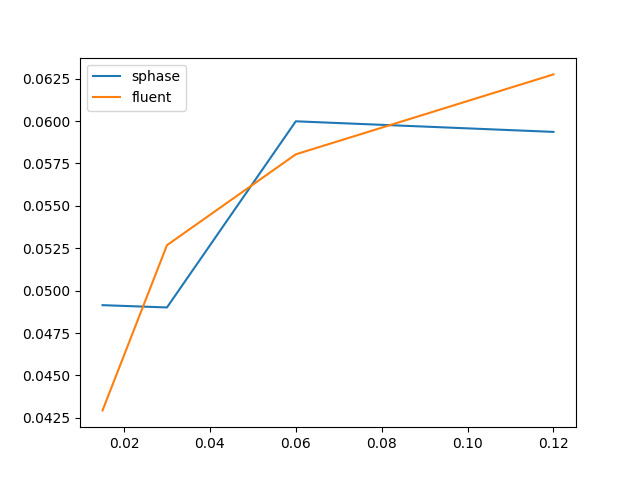
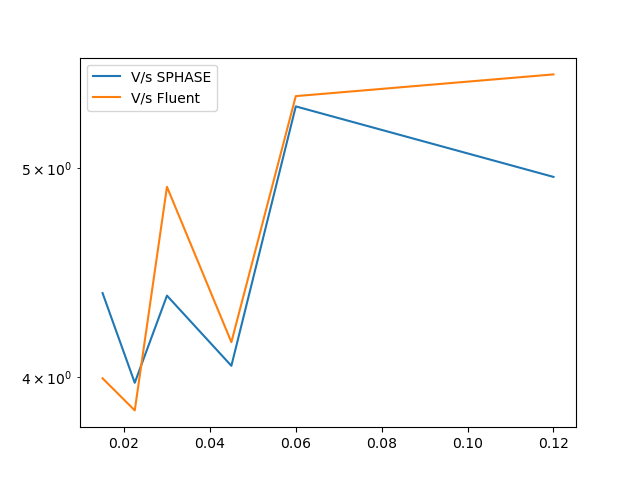
l2 error

diff --git a/L2Error/l2-2.py b/L2Error/l2-2.py
@@ -6,6 +6,7 @@ import csv
 import os
 import statistics as stat
 import matplotlib.pyplot as plt
+from sklearn.linear_model import LinearRegression
 
 
 # Input sphase and fluent files
@@ -16,7 +17,8 @@ fluent = np.loadtxt('./FluentDigester.csv', delimiter = ',', skiprows =1)
 # fluent = np.array(b)
 
 
-name = ["DSPH.015.015.100.csv", "DSPH.015.0225.100.csv","dsph.csv","DSPH.015.045.100.csv", "DSPH.015.060.100.csv"]
+# name = ["DSPH.015.015.100.csv", "DSPH.015.0225.100.csv","dsph.csv","DSPH.015.045.100.csv", "DSPH.015.060.100.csv"]
+name = ["DSPH.015.015.100.csv", "DSPH.015.0225.100.csv","dsph.csv","DSPH.015.045.100.csv", "DSPH.015.060.100.csv", "DSPH.015.120.100.csv"]
 # name = "dsph.csv"
 # name = "DSPH.015.060.100.csv"
 l2_sphase = np.ones(len(name))
@@ -34,12 +36,16 @@ for i in range (len(name)):
     dsph_inter_sphase = np.interp(sphase[:,0], dsph[:,0], dsph[:,1])
     dsph_inter_fluent = np.interp(fluent[:,0], dsph[:,0], dsph[:,1])
 
-    l2_sphase[i] = np.power((np.sum(np.power((sphase[:,1]-dsph_inter_sphase),2)))/len(sphase[:,1]),0.5)
-    l2_fluent[i] = np.power((np.sum(np.power((fluent[:,1]-dsph_inter_fluent),2)))/len(dsph_inter_fluent),.5)
+    l2_sphase[i] = np.power((np.sum(np.power((sphase[:,1]-dsph_inter_sphase),2))),.5)
+    l2_fluent[i] = np.power((np.sum(np.power((fluent[:,1]-dsph_inter_fluent),2))),.5)
+    # l2_sphase[i] = np.power((np.sum(np.power((sphase[:,1]-dsph_inter_sphase),2)))/len(sphase[:,1]),0.5)
+    # l2_fluent[i] = np.power((np.sum(np.power((fluent[:,1]-dsph_inter_fluent),2)))/len(dsph_inter_fluent),.5)
     # l2_sphase[i] = np.power(np.sum(np.power((sphase[:,1]-dsph_inter_sphase),2))/len(sphase[:,1]),0.5)
     # l2_fluent[i] = np.power(np.sum(np.power((fluent[:,1]-dsph_inter_fluent),2))/len(fluent[:,1]),0.5)
-    l1_sphase[i] = np.sum(np.absolute((sphase[:,1]-dsph_inter_sphase)))/len(sphase[:,1])
-    l1_fluent[i] = np.sum(np.absolute((fluent[:,1]-dsph_inter_fluent)))/len(fluent[:,1])
+    # l1_sphase[i] = np.sum(np.absolute((sphase[:,1]-dsph_inter_sphase)))/len(sphase[:,1])
+    # l1_fluent[i] = np.sum(np.absolute((fluent[:,1]-dsph_inter_fluent)))/len(fluent[:,1])
+    l1_sphase[i] = np.sum(np.absolute((sphase[:,1]-dsph_inter_sphase)))
+    l1_fluent[i] = np.sum(np.absolute((fluent[:,1]-dsph_inter_fluent)))
     temp1 = np.power(dsph[:,1],2)
     temp2 = np.power(sphase[:,1],2)
     ar_sphase[i] = np.power(((np.sum(temp1))/(np.sum(temp2))),.5)
@@ -53,33 +59,54 @@ for i in range (len(name)):
 
 # time = [1206, 205, 34]
 # time = np.array([1134549, 286430, 73001, 18928])
-time = np.array([0.015, 0.03, 0.06, 0.12])
-plt.scatter(time, l2_sphase, label="sphase")
-plt.scatter(time, l2_fluent, label = "fluent")
+# time = np.array([0.015, 0.0225, 0.03, 0.045,0.06]).reshape(-1,1)
+time = np.array([0.015, 0.0225, 0.03, 0.045,0.06, 0.12]).reshape(-1,1)
+time = time*1
+
+errorSphase = l2_sphase
+errorFluent = l2_fluent
+model = LinearRegression()
+model.fit(time, errorFluent)
+y_pred = model.predict(time)
+# sp = csaps.UnivariateCubicSmoothingSpline(x, y, smooth=0.85)
+
+
+print(model.coef_)
+plt.plot(time, (model.coef_*time+model.intercept_))
+plt.scatter(time, errorSphase, label="sphase")
+plt.scatter(time, errorFluent, label = "fluent")
 axes = plt.gca()
 # y_vals = np.array(l2_fluent)
+plt.xlim(0.01,1)
 x_vals = np.array(axes.get_xlim())
-intercept = 0.5*l2_sphase[0]
+intercept = model.intercept_
+# intercept = 0.5*l2_sphase[0]
 # intercept = 0
 # intercept = -1*np.power(l2_sphase[0],1000000000)
-y_vals = intercept + 2 * x_vals
+y_vals = (1) + 2 * x_vals
+# y_vals = (intercept+.1) + 2 * x_vals
 # x_vals = intercept + y_vals/2
-plt.plot(x_vals, y_vals, '--', label = "2")
+plt.plot(x_vals, y_vals, '-.', label = "2nd order convergence")
 # x_vals = intercept + y_vals/1
-y_vals = intercept + 1 * x_vals
-plt.plot(x_vals, y_vals, '--', label="1")
+y_vals = (0.1) + 1 * x_vals
+plt.plot(x_vals, y_vals, '--', label="1st order convergence")
 # y_vals = intercept + 3 * x_vals
 # plt.plot(x_vals, y_vals, '--', label="3")
-plt.ylim(0.5*np.min(l2_sphase),2*np.max(l2_sphase))
+plt.ylim(0.1,10)
+plt.xlim(0.01,1)
+# plt.ylim(0.5*np.min(errorSphase),2*np.max(errorSphase))
 plt.yscale('log')
+plt.xscale('log')
+plt.grid(which="minor")
+plt.grid(which="major")
 plt.legend()
 plt.savefig("xx.png")
 plt.clf()
 # time = np.array([1134549, 286430, 73001, 18928])
-plt.plot(time, l1_sphase, label="sphase")
-plt.plot(time, l1_fluent, label = "fluent")
+plt.plot(time, l1_sphase, label="V/s SPHASE")
+plt.plot(time, l1_fluent, label = "V/s Fluent")
 plt.legend()
-# plt.yscale('log')
+plt.yscale('log')
 plt.savefig("mesh.png")
 # plt.show()
 
@@ -92,6 +119,8 @@ temp2 = np.power(fluent[:,1],2)
 ar_sf = np.power(((np.sum(temp1))/(np.sum(temp2))),.5)
 temp1 = (np.sum(np.power(sph_fluent-fluent[:,1],2)))/(np.sum(np.power(sph_fluent,2)))
 pd_sf = np.power(temp1,.5)
+
+
 
 print(l1_sphase_fluent, l2_sphase_fluent)
 print("fluent")
@@ -128,3 +157,5 @@ print(ar_sf)
 # plt.plot(xloc,vavg, 'g:', label='DSPH')
 # np.savetxt("./dsph.csv", np.stack((xloc, vavg), axis=1), fmt="%f", delimiter=",", comments="", header="xloc,vavg")
 
+
+# https://www.sciencedirect.com/science/article/pii/S0927025616304426
